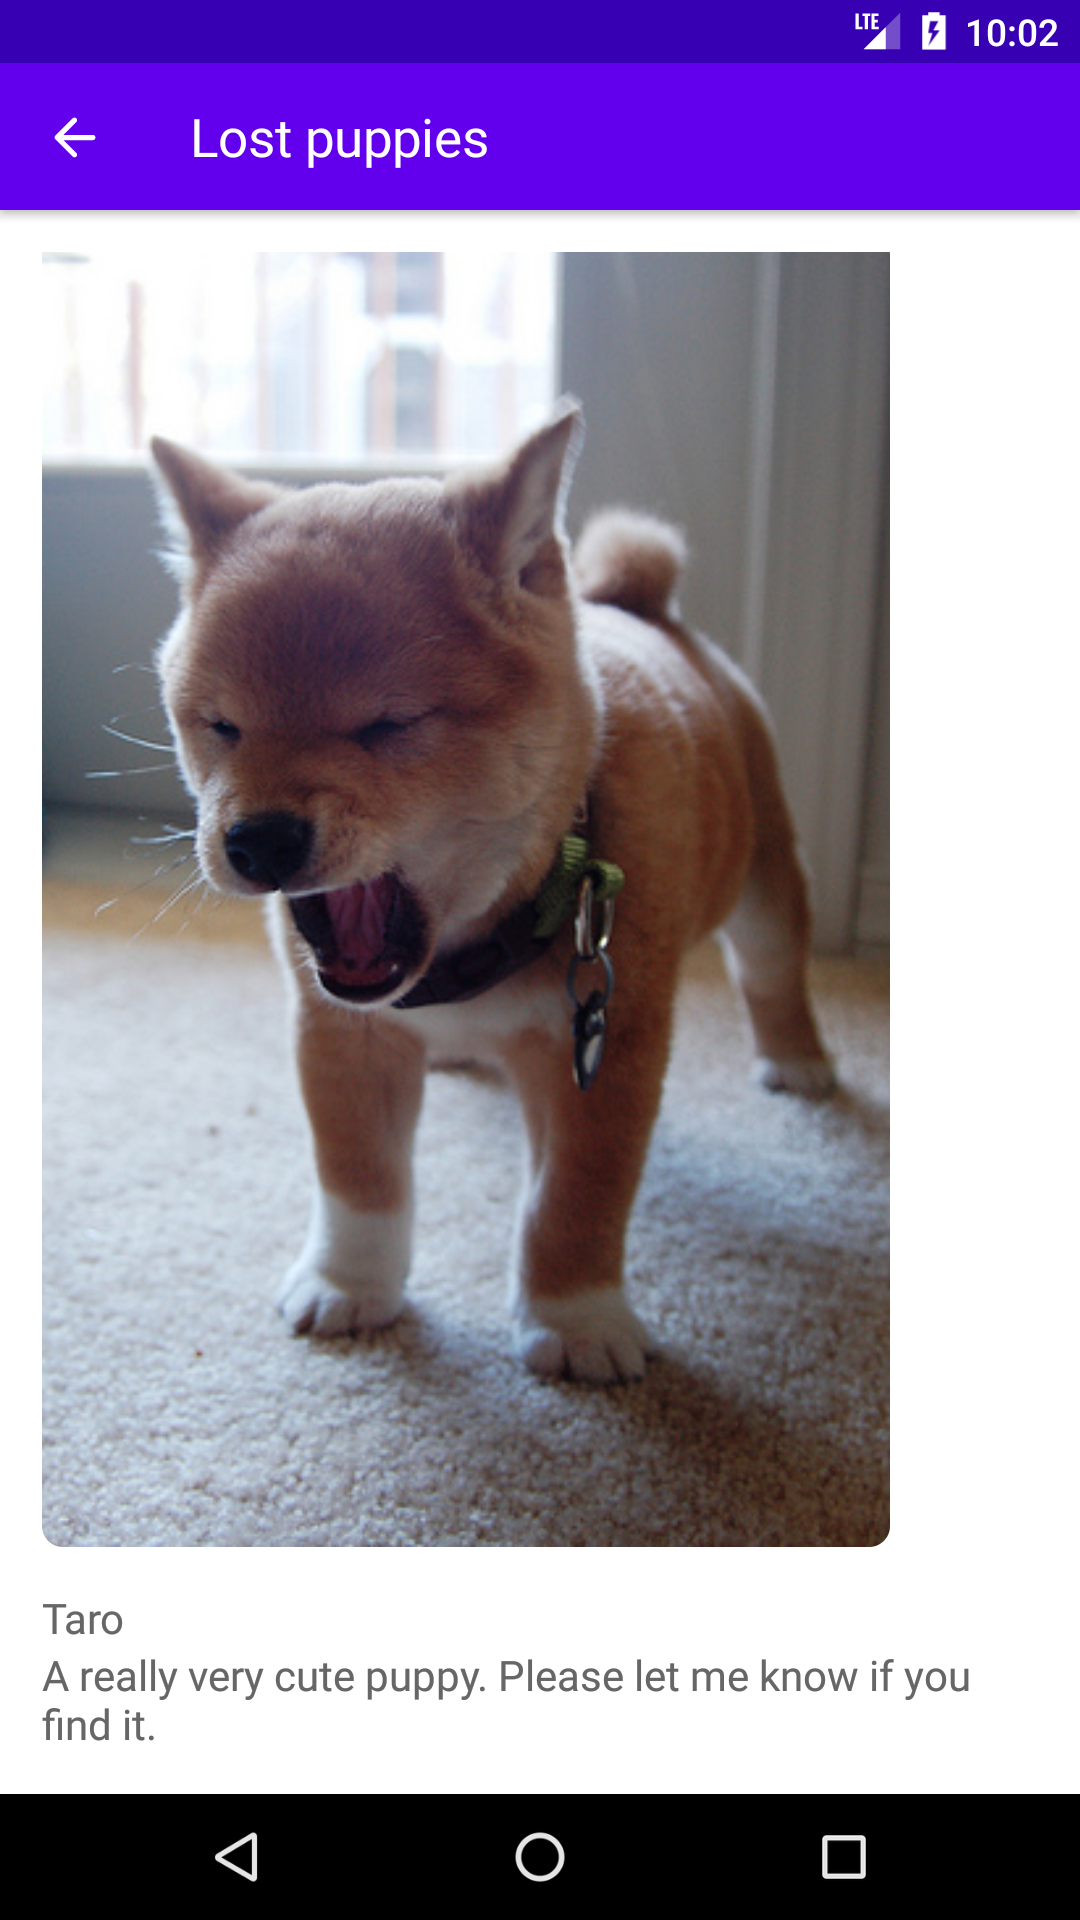
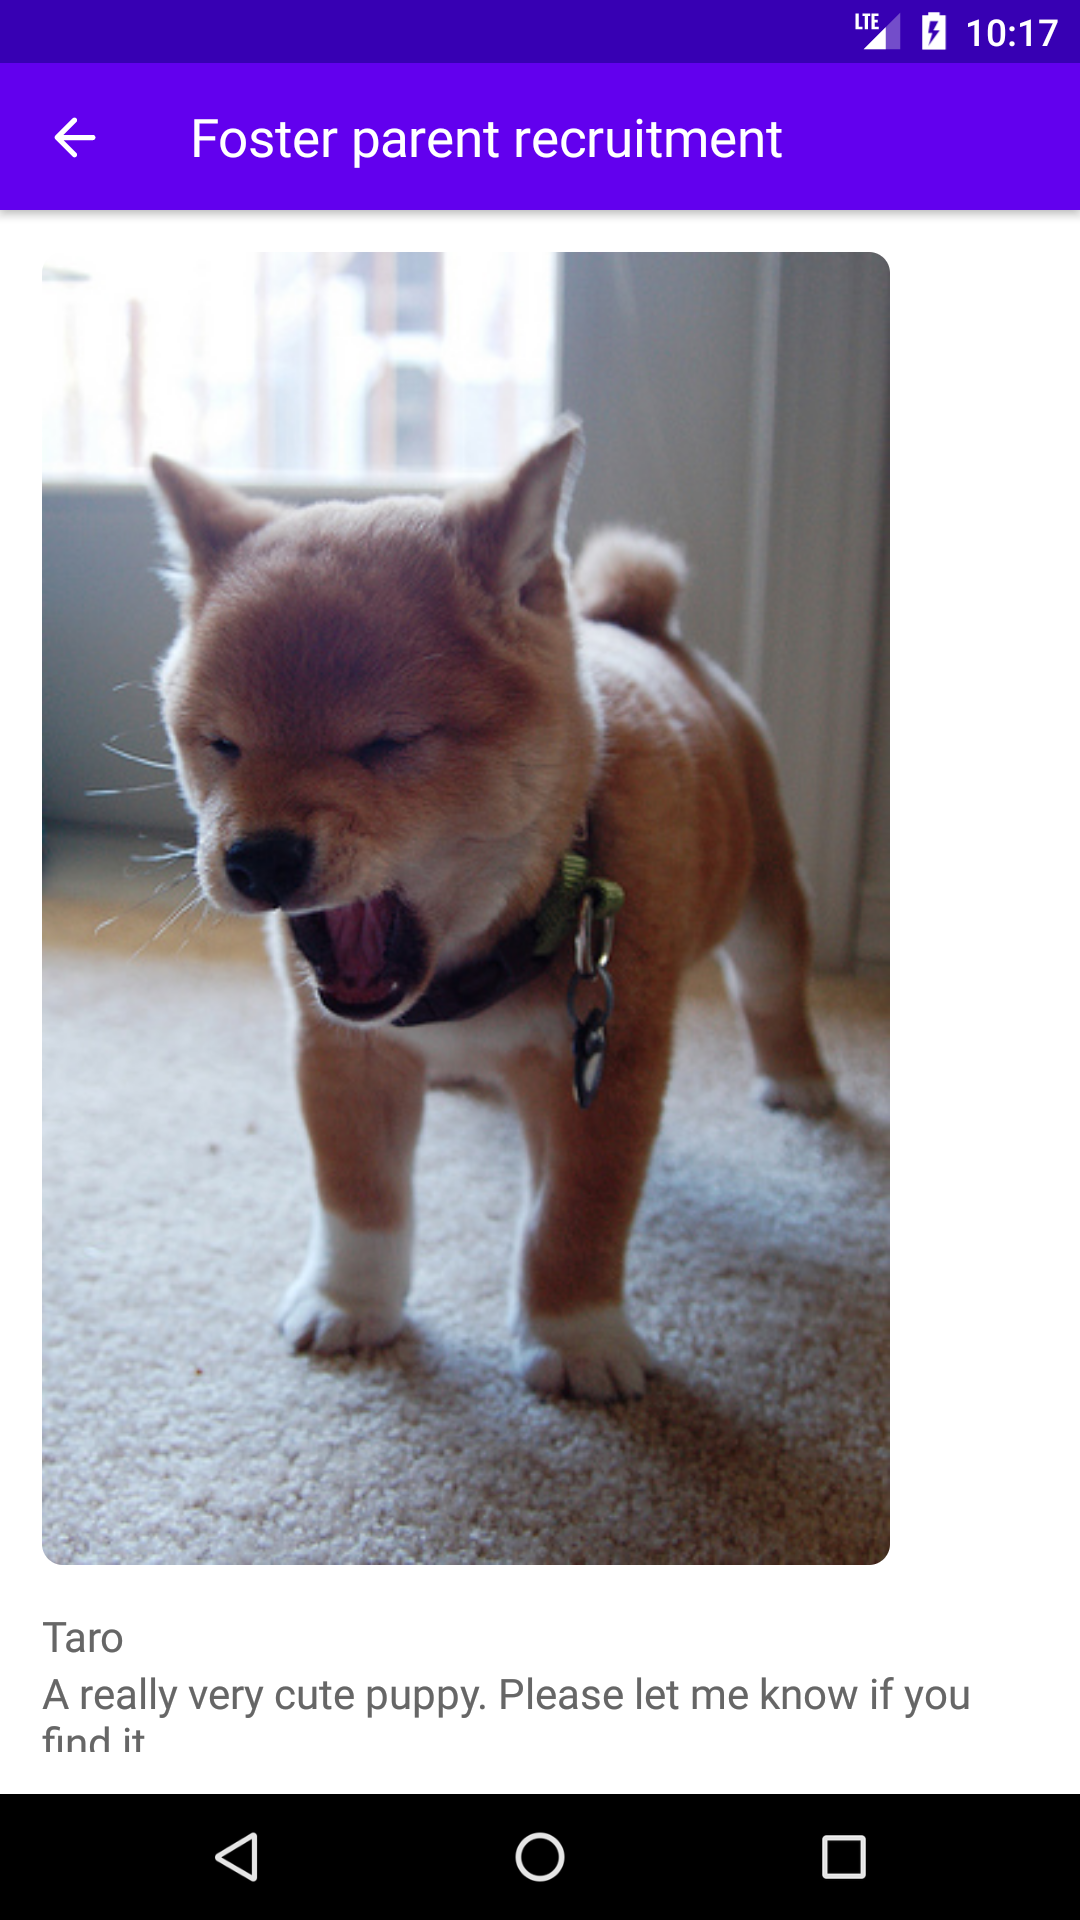
Fix app name

diff --git a/app/src/main/java/com/example/androiddevchallenge/MainActivity.kt b/app/src/main/java/com/example/androiddevchallenge/MainActivity.kt
@@ -85,7 +85,7 @@ fun PuppyList(navController: NavController, puppyList: List<Puppy>, modifier: Mo
     Scaffold(
         topBar = {
             TopAppBar(
-                title = { Text(text = "Lost puppies") }
+                title = { Text(text = "Foster parent recruitment") }
             )
         }
     ) {
@@ -140,7 +140,7 @@ fun PuppyDetail(navController: NavController, index: Int?) {
     Scaffold(
         topBar = {
             TopAppBar(
-                title = { Text(text = "Lost puppies") },
+                title = { Text(text = "Foster parent recruitment") },
                 navigationIcon = { IconButton(onClick = { navController.popBackStack() }) {
                     Icon(Icons.Rounded.ArrowBack, contentDescription = "back")
                 }}

diff --git a/README.md b/README.md
@@ -7,7 +7,7 @@
 
 ## :scroll: Description
 <!--- Describe your app in one or two sentences -->
-This app can display a message to help you find a lost puppy.
+This app can display a message to find a foster parent.
 
 ## :bulb: Motivation and Context
 <!--- Optionally point readers to interesting parts of your submission. -->
